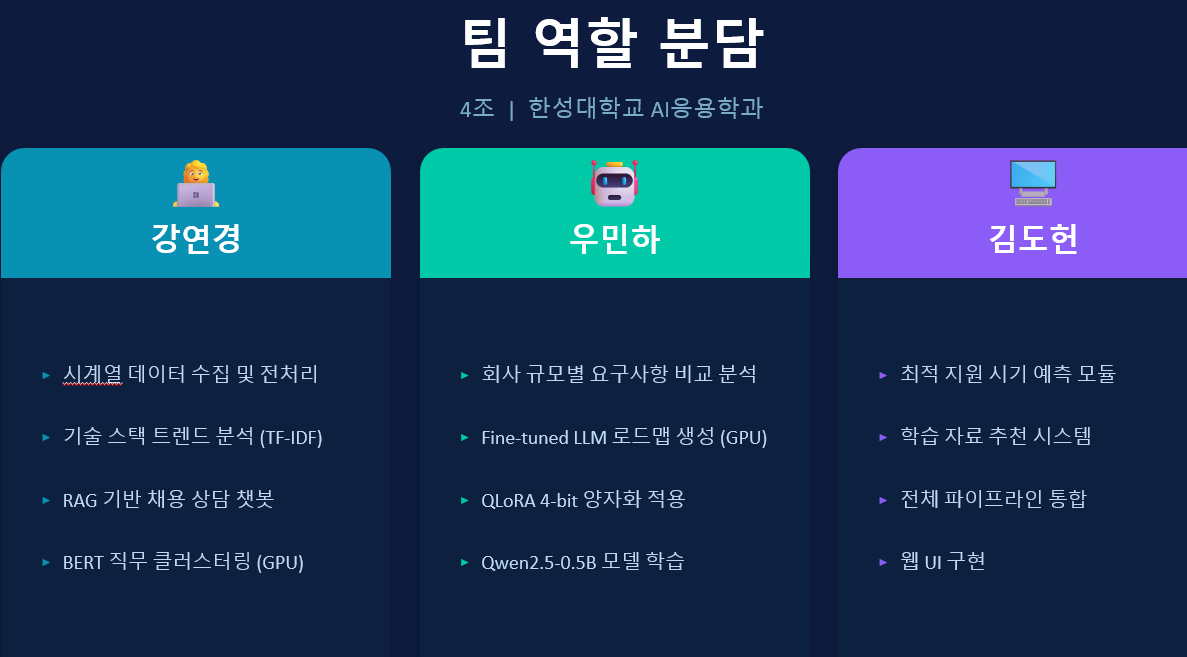
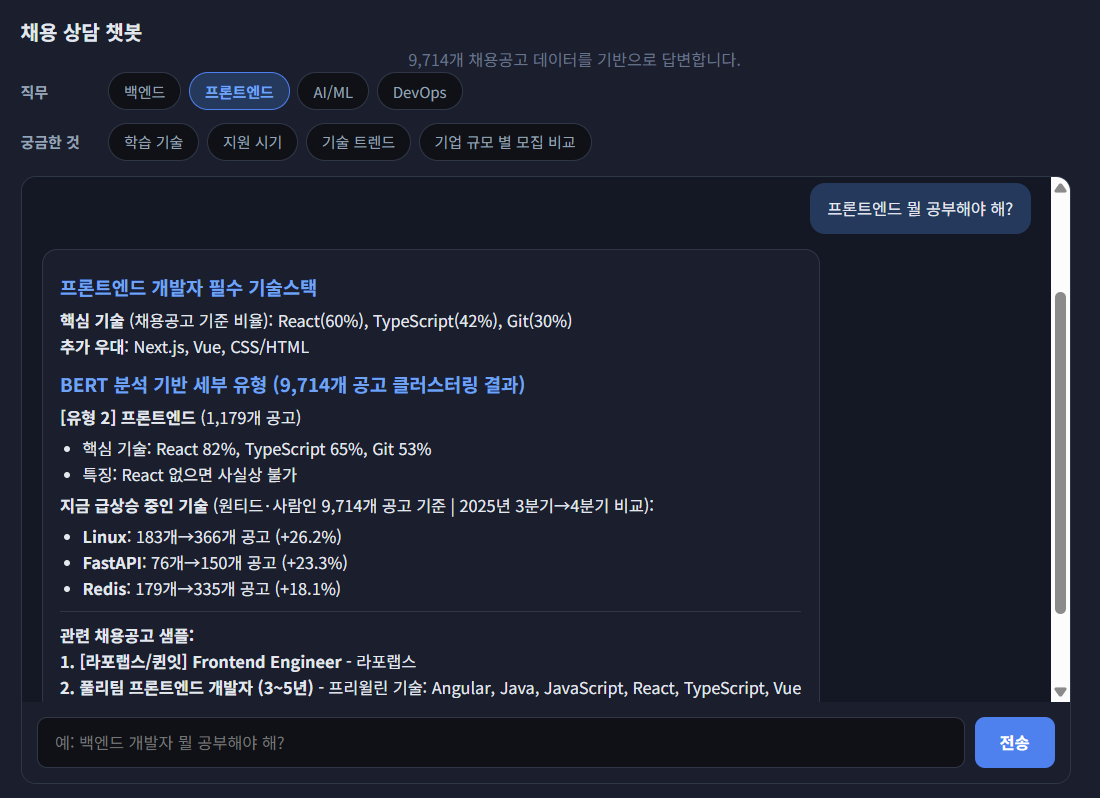
README 개선 및 로드맵 이미지 업데이트
- README: 빠른 시작 섹션 추가, 데이터 수 9,714건 / 분석 기간 수정
- README: RAG·로드맵 기능 제한 안내 추가
- README: RAG 챗봇 스크린샷 및 새 로드맵 이미지 2종 추가
- 기존 roadmap_ 이미지 3종 삭제
- 01_integrate_data_v2.py: 원본 파일 없을 때 친절한 에러 메시지 추가

diff --git a/01_integrate_data_v2.py b/01_integrate_data_v2.py
@@ -19,6 +19,24 @@
 import pandas as pd
 from datetime import datetime
 import os
+import sys
+
+# 원본 데이터 파일 존재 확인
+required_files = [
+    'wanted_past_1year.csv',
+    'wanted_recent.csv',
+    'saramin_it_20260518.csv',
+    'jobda_it_20260518_161026.csv',
+]
+missing = [f for f in required_files if not os.path.exists(f)]
+if missing:
+    print("❌ 원본 데이터 파일을 찾을 수 없습니다:")
+    for f in missing:
+        print(f"   - {f}")
+    print("\n→ 위 파일들을 프로젝트 루트 폴더에 배치한 뒤 다시 실행하세요.")
+    print("→ 분석 결과만 확인하려면 데이터 파이프라인 없이 서버를 바로 실행하세요:")
+    print("   uvicorn server:app --reload --port 8000")
+    sys.exit(1)
 
 print("="*70)
 print("📥 Step 1-1: 데이터 통합 (원티드 2개 파일 + 사람인 + 잡다임)")
